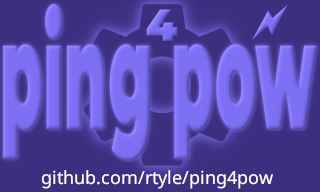
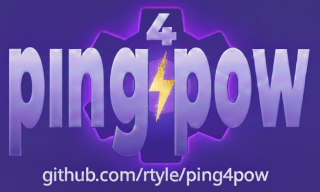
better ping4pow splash image

diff --git a/components/smtp_/smtp.cpp b/components/smtp_/smtp.cpp
@@ -422,7 +422,7 @@ void Component::setup() {
             }
             {
 #if 0
-              // this will block on espressif/asio port
+              // the espressif/asio port of async_handshake is not asynchronous
               // esphome will complain it takes too long (~500 > 30ms)
               co_await this->stream_->async_handshake(asio::ssl::stream_base::client, asio::redirect_error(asio::use_awaitable, ec));
 #else
